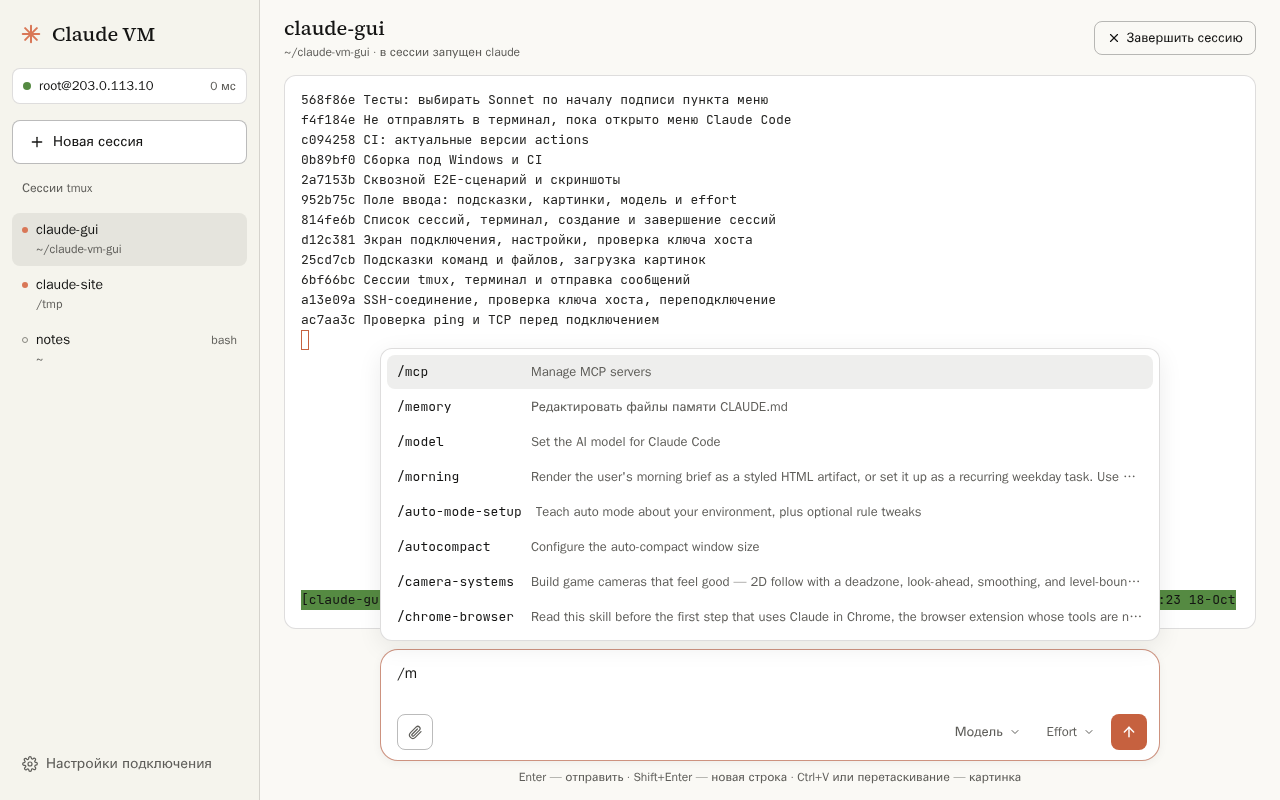
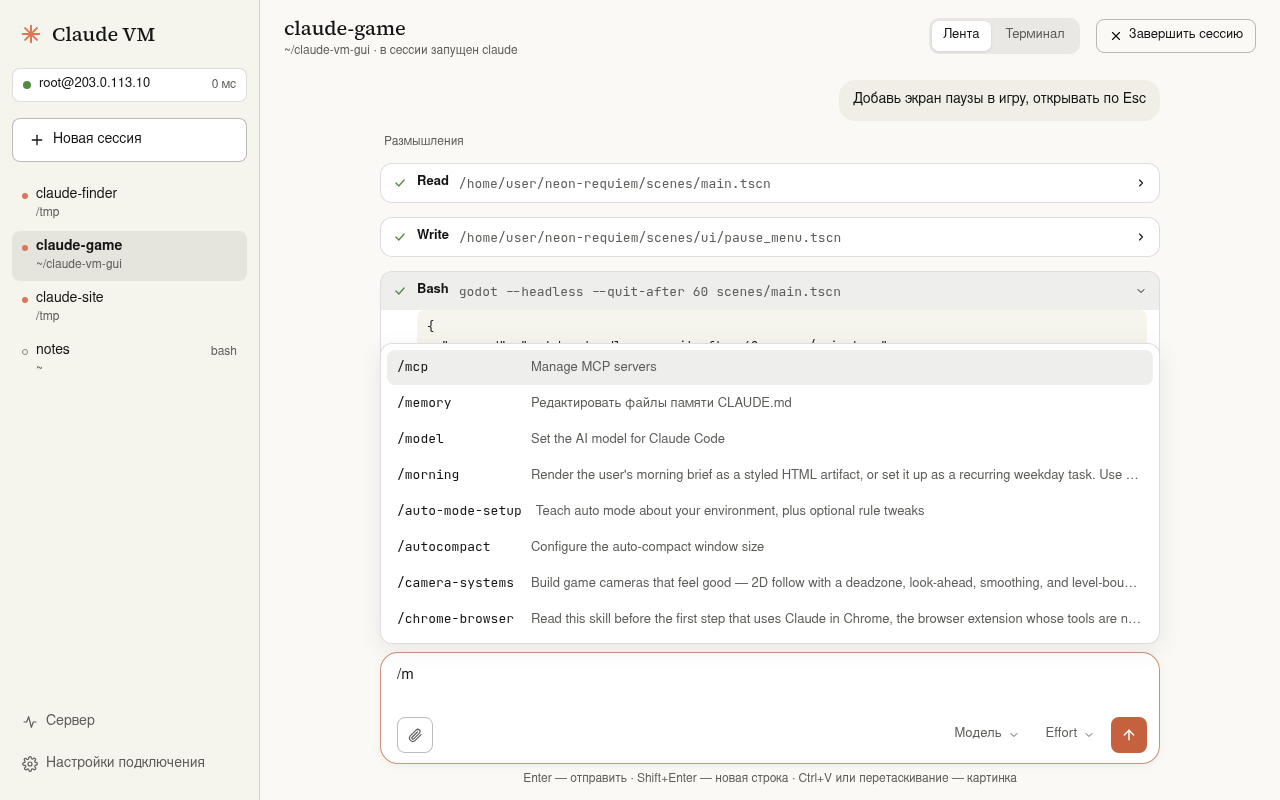
Версия 0.2.0: документация и скриншоты

diff --git a/README.md b/README.md
@@ -1,7 +1,7 @@
 # Claude VM
 
 Windows-приложение для работы с [Claude Code](https://docs.claude.com/en/docs/claude-code), который запущен на вашей ВМ (Ubuntu) в tmux.
-Оно заменяет ручной сценарий «cmd → `ssh` → `tmux attach`/`tmux new` → `claude` → `tmux kill-session`» кнопками и показывает терминал в интерфейсе в стиле claude.ai.
+Оно заменяет ручной сценарий «cmd → `ssh` → `tmux attach`/`tmux new` → `claude` → `tmux kill-session`» кнопками и показывает переписку с Claude в интерфейсе в стиле claude.ai.
 
 Приложение подключается только к вашей ВМ по SSH. К серверам Anthropic напрямую оно не обращается: с ними работает Claude Code на ВМ.
 
@@ -10,11 +10,15 @@ Windows-приложение для работы с [Claude Code](https://docs.c
 ## Возможности
 
 - **Проверка перед подключением**: ping (только предупреждение — многие серверы на него не отвечают) и TCP-порт SSH (обязательно).
-- **Вход по SSH-ключу** без пароля; ключ, защищённый паролем, берётся из ssh-agent Windows. Ключ сервера сверяется с `known_hosts`, как у обычного `ssh`; при несовпадении подключение блокируется.
+- **Вход по SSH-ключу** (по умолчанию) или **по паролю**. Ключ, защищённый паролем, берётся из ssh-agent Windows. Пароль необязателен: он хранится в настройках зашифрованным средствами Windows (DPAPI) и пробуется после ключа, в том числе через keyboard-interactive. Ключ сервера сверяется с `known_hosts`, как у обычного `ssh`; при несовпадении подключение блокируется.
 - **Сессии tmux**: список всех сессий (где запущен claude, какие открыты ещё и в cmd), новая сессия с рабочей папкой и автозапуском `claude`, завершение с подтверждением. Сессии продолжают жить на ВМ — их можно открыть и из cmd.
-- **Терминал** с настоящим Claude Code: все его функции, меню разрешений и горячие клавиши работают как в консоли.
+- **Порядок сессий**: перетаскивание, закрепление (ПКМ → «Закрепить», булавка, закреплённые всегда наверху), именованные группы со сворачиванием и закреплением, страницы, если всё не помещается. Раскладка хранится на ПК отдельно для каждой ВМ; tmux не меняется.
+- **Лента вместо терминала**, пока в сессии работает claude: сообщения, ответы в markdown, вызовы инструментов с результатами (раскрываются по клику), строка «Claude думает…» и кнопка «Остановить». Содержимое берётся из журнала Claude Code на ВМ (`~/.claude/projects/…`).
+- **Меню Claude Code карточкой**: запрос разрешения, AskUserQuestion, «доверять папке?», `/model` — выбор стрелками, Enter, Esc, цифрами или мышью. Незнакомые экраны (например, `/config`) и сессии без claude показываются настоящим терминалом; переключатель «Лента | Терминал» — в шапке.
 - **Поле ввода как на claude.ai**: подсказки по `/` (команды и скиллы с ВМ) и `@` (файлы рабочей папки), вставка картинок (Ctrl+V, перетаскивание, скрепка), выбор модели (`/model`) и effort (`/effort`).
+- **Отправка одним Enter**: картинки и длинный текст Claude Code сначала сворачивает в `[Image #1]`/`[Pasted text …]`; приложение жмёт Enter, только когда поле ввода устоялось, и проверяет, что сообщение ушло.
 - **Безопасная отправка**: текст уходит в терминал, только если в сессии работает claude, а не обычная оболочка, и не открыто меню Claude Code (запрос разрешения и т. п.) — иначе Enter выбрал бы пункт по умолчанию. Сообщение, начинающееся с `!`, Claude Code выполняет как команду bash — так же, как в консоли.
+- **Панель «Сервер»**: загрузка CPU графиком, load average, память и swap, место на дисках, сеть, топ процессов (у claude — имя сессии), ОС, ядро, время работы, версия Claude Code. Всё читается одной командой по SSH, на ВМ ничего не ставится.
 - **Обрыв связи**: плашка «Связь потеряна», автоматическое переподключение, терминал возвращается в ту же сессию.
 - Светлая и тёмная темы (по умолчанию — как в Windows).
 
@@ -23,12 +27,16 @@ Windows-приложение для работы с [Claude Code](https://docs.c
 | ![Подключение](docs/screenshots/02-connect.png) | ![Тёмная тема](docs/screenshots/03-main-dark.png) |
 | **Новая сессия** | **Модель и effort** |
 | ![Новая сессия](docs/screenshots/04-new-session.png) | ![Модель](docs/screenshots/05-model-menu.png) |
+| **Меню Claude Code карточкой** | **Панель «Сервер»** |
+| ![Карточка меню](docs/screenshots/06-menu-card.png) | ![Сервер](docs/screenshots/07-server.png) |
+| **Закрепление и группы** | |
+| ![Сессии](docs/screenshots/08-sessions.png) | |
 
 ## Установка
 
 1. Скачайте `Claude VM Setup <версия>.exe` (установщик) или `Claude VM <версия>.exe` (портативная версия, без установки) со страницы [Releases](https://github.com/Liotto1337/claude-vm-gui/releases).
 2. Приложение не подписано сертификатом, поэтому при первом запуске Windows SmartScreen покажет предупреждение: «Подробнее» → «Выполнить в любом случае».
-3. При первом запуске откроются настройки: адрес ВМ, порт (22), пользователь (`root`) и путь к ключу (`%USERPROFILE%\.ssh\id_ed25519`).
+3. При первом запуске откроются настройки: адрес ВМ, порт (22), пользователь (`root`), путь к ключу (`%USERPROFILE%\.ssh\id_ed25519`) и, если нужно, пароль.
 
 ### Что нужно на ВМ
 
@@ -39,7 +47,7 @@ Windows-приложение для работы с [Claude Code](https://docs.c
 
 ## Где хранятся настройки
 
-`%APPDATA%\Claude VM\config.json`. Ключ сервера при первом подключении (после вашего подтверждения отпечатка) дописывается в `%USERPROFILE%\.ssh\known_hosts`.
+`%APPDATA%\Claude VM\config.json` (пароль — только в зашифрованном виде), порядок и группы сессий — `%APPDATA%\Claude VM\layout.json`. Ключ сервера при первом подключении (после вашего подтверждения отпечатка) дописывается в `%USERPROFILE%\.ssh\known_hosts`.
 
 ## Разработка
 
@@ -57,6 +65,8 @@ npm run screenshots         # скриншоты для README
 ```
 
 `vm.config.json` в `.gitignore`. Хук `pre-commit` отклоняет коммит, если адрес из него встретился в любом добавленном файле.
+
+Тестовые переменные окружения: `CVG_USER_DATA` (папка настроек), `CVG_KNOWN_HOSTS`, `CVG_TMUX_SOCKET` (отдельный сервер tmux), `CVG_CLAUDE_DIR` (каталог Claude Code вместо `~/.claude`), `CVG_CLAUDE_CMD` (команда вместо `claude`, например фейковый `tests/fixtures/fake-claude.mjs`), `CVG_FAKE_CLAUDE=1`, `CVG_DEMO_HOST`, `CVG_TEST_HOOKS=1`. Снимки экранов настоящего Claude Code для фикстур: `node scripts/dev/fake-anthropic.mjs` и `scripts/dev/capture-screen.sh` — claude работает с фейковым API, запросов к модели нет.
 
 Интеграционные и E2E-тесты запускаются на самой ВМ и подключаются к `127.0.0.1` ключом `~/.ssh/cvg_test_ed25519`, разрешённым в `authorized_keys` только с localhost (`from="127.0.0.1,::1"`). Без этого ключа они пропускаются. Тесты работают только с сессиями `cvg-test-*` и не отправляют запросов к модели.
 

diff --git a/obsidian/Claude VM GUI.md b/obsidian/Claude VM GUI.md
@@ -5,14 +5,15 @@ tags: [проект, claude-vm-gui, electron]
 
 # Claude VM GUI
 
-Windows-приложение для работы с Claude Code, который запущен на ВМ (Ubuntu) в tmux. Заменяет ручной сценарий «cmd → ssh → tmux attach/new → claude → tmux kill-session» кнопками и оборачивает терминал в интерфейс в стиле claude.ai.
+Windows-приложение для работы с Claude Code, который запущен на ВМ (Ubuntu) в tmux. Заменяет ручной сценарий «cmd → ssh → tmux attach/new → claude → tmux kill-session» кнопками и показывает переписку в интерфейсе в стиле claude.ai (версия 0.2).
 
 ## Как пользоваться
 
-1. Запустить приложение — оно проверяет ping и TCP:22, затем подключается по SSH-ключу.
-2. Слева выбрать tmux-сессию или создать новую (имя + рабочая папка, claude запускается сам).
-3. Писать в поле ввода внизу: подсказки по `/` и `@`, картинки через Ctrl+V, смена модели и effort.
-4. Кнопка «Завершить сессию» — `tmux kill-session`.
+1. Запустить приложение — оно проверяет ping и TCP:22, затем подключается по SSH-ключу или паролю.
+2. Слева выбрать tmux-сессию или создать новую (имя + рабочая папка, claude запускается сам). Сессии можно перетаскивать, закреплять и собирать в группы (ПКМ).
+3. Пока работает claude, вместо терминала — лента переписки; меню Claude Code — карточкой. Писать в поле ввода внизу: подсказки по `/` и `@`, картинки через Ctrl+V, смена модели и effort.
+4. «Сервер» внизу слева — CPU, память, диски, сеть, процессы ВМ.
+5. Кнопка «Завершить сессию» — `tmux kill-session`.
 
 ## Заметки
 

diff --git a/obsidian/История разработки.md b/obsidian/История разработки.md
@@ -45,3 +45,4 @@ tags: [claude-vm-gui, история]
 - 0.2, Task 8: лента переписки вместо терминала, карточки меню, переключатель «Лента | Терминал», ссылки в браузере; claude распознаётся и когда он сам — процесс панели.
 - 0.2, Task 9: панель «Сервер» — CPU с графиком, память, диски, сеть, процессы с именами сессий claude, сведения о системе.
 - 0.2, проверка с настоящим claude через фейковый API: доверие папке, картинка, Bash с разрешением, AskUserQuestion стрелками, /model, «Остановить». Исправлено: карточка меню всплывает поверх ленты (раньше терминал под лентой ужимался, и Claude Code обрезал меню); журнал новой сессии, которого ещё нет, — это пустая лента, а не ошибка; код в карточке — по пунктирам «╌».
+- 0.2, Task 10: скриншоты (лента, карточка меню, панель «Сервер», группы), README, версия 0.2.0; проверка ввода после переподключения в E2E не зависит от переносов строк.

diff --git a/obsidian/Стек и запуск.md b/obsidian/Стек и запуск.md
@@ -25,7 +25,7 @@ tags: [claude-vm-gui, стек]
 | `npm run test:int` | Интеграционные тесты против ВМ |
 | `xvfb-run -a npm run test:e2e` | E2E на сервере без экрана |
 | `npm run typecheck` | Проверка типов |
-| `npm run screenshots` | Скриншоты для README в `docs/screenshots/` (демо-сессии, демо-адрес) |
+| `npm run screenshots` | Скриншоты для README в `docs/screenshots/` (демо-сессии, фейковый claude с демо-перепиской, демо-адрес) |
 
 ## Конфигурация
 
